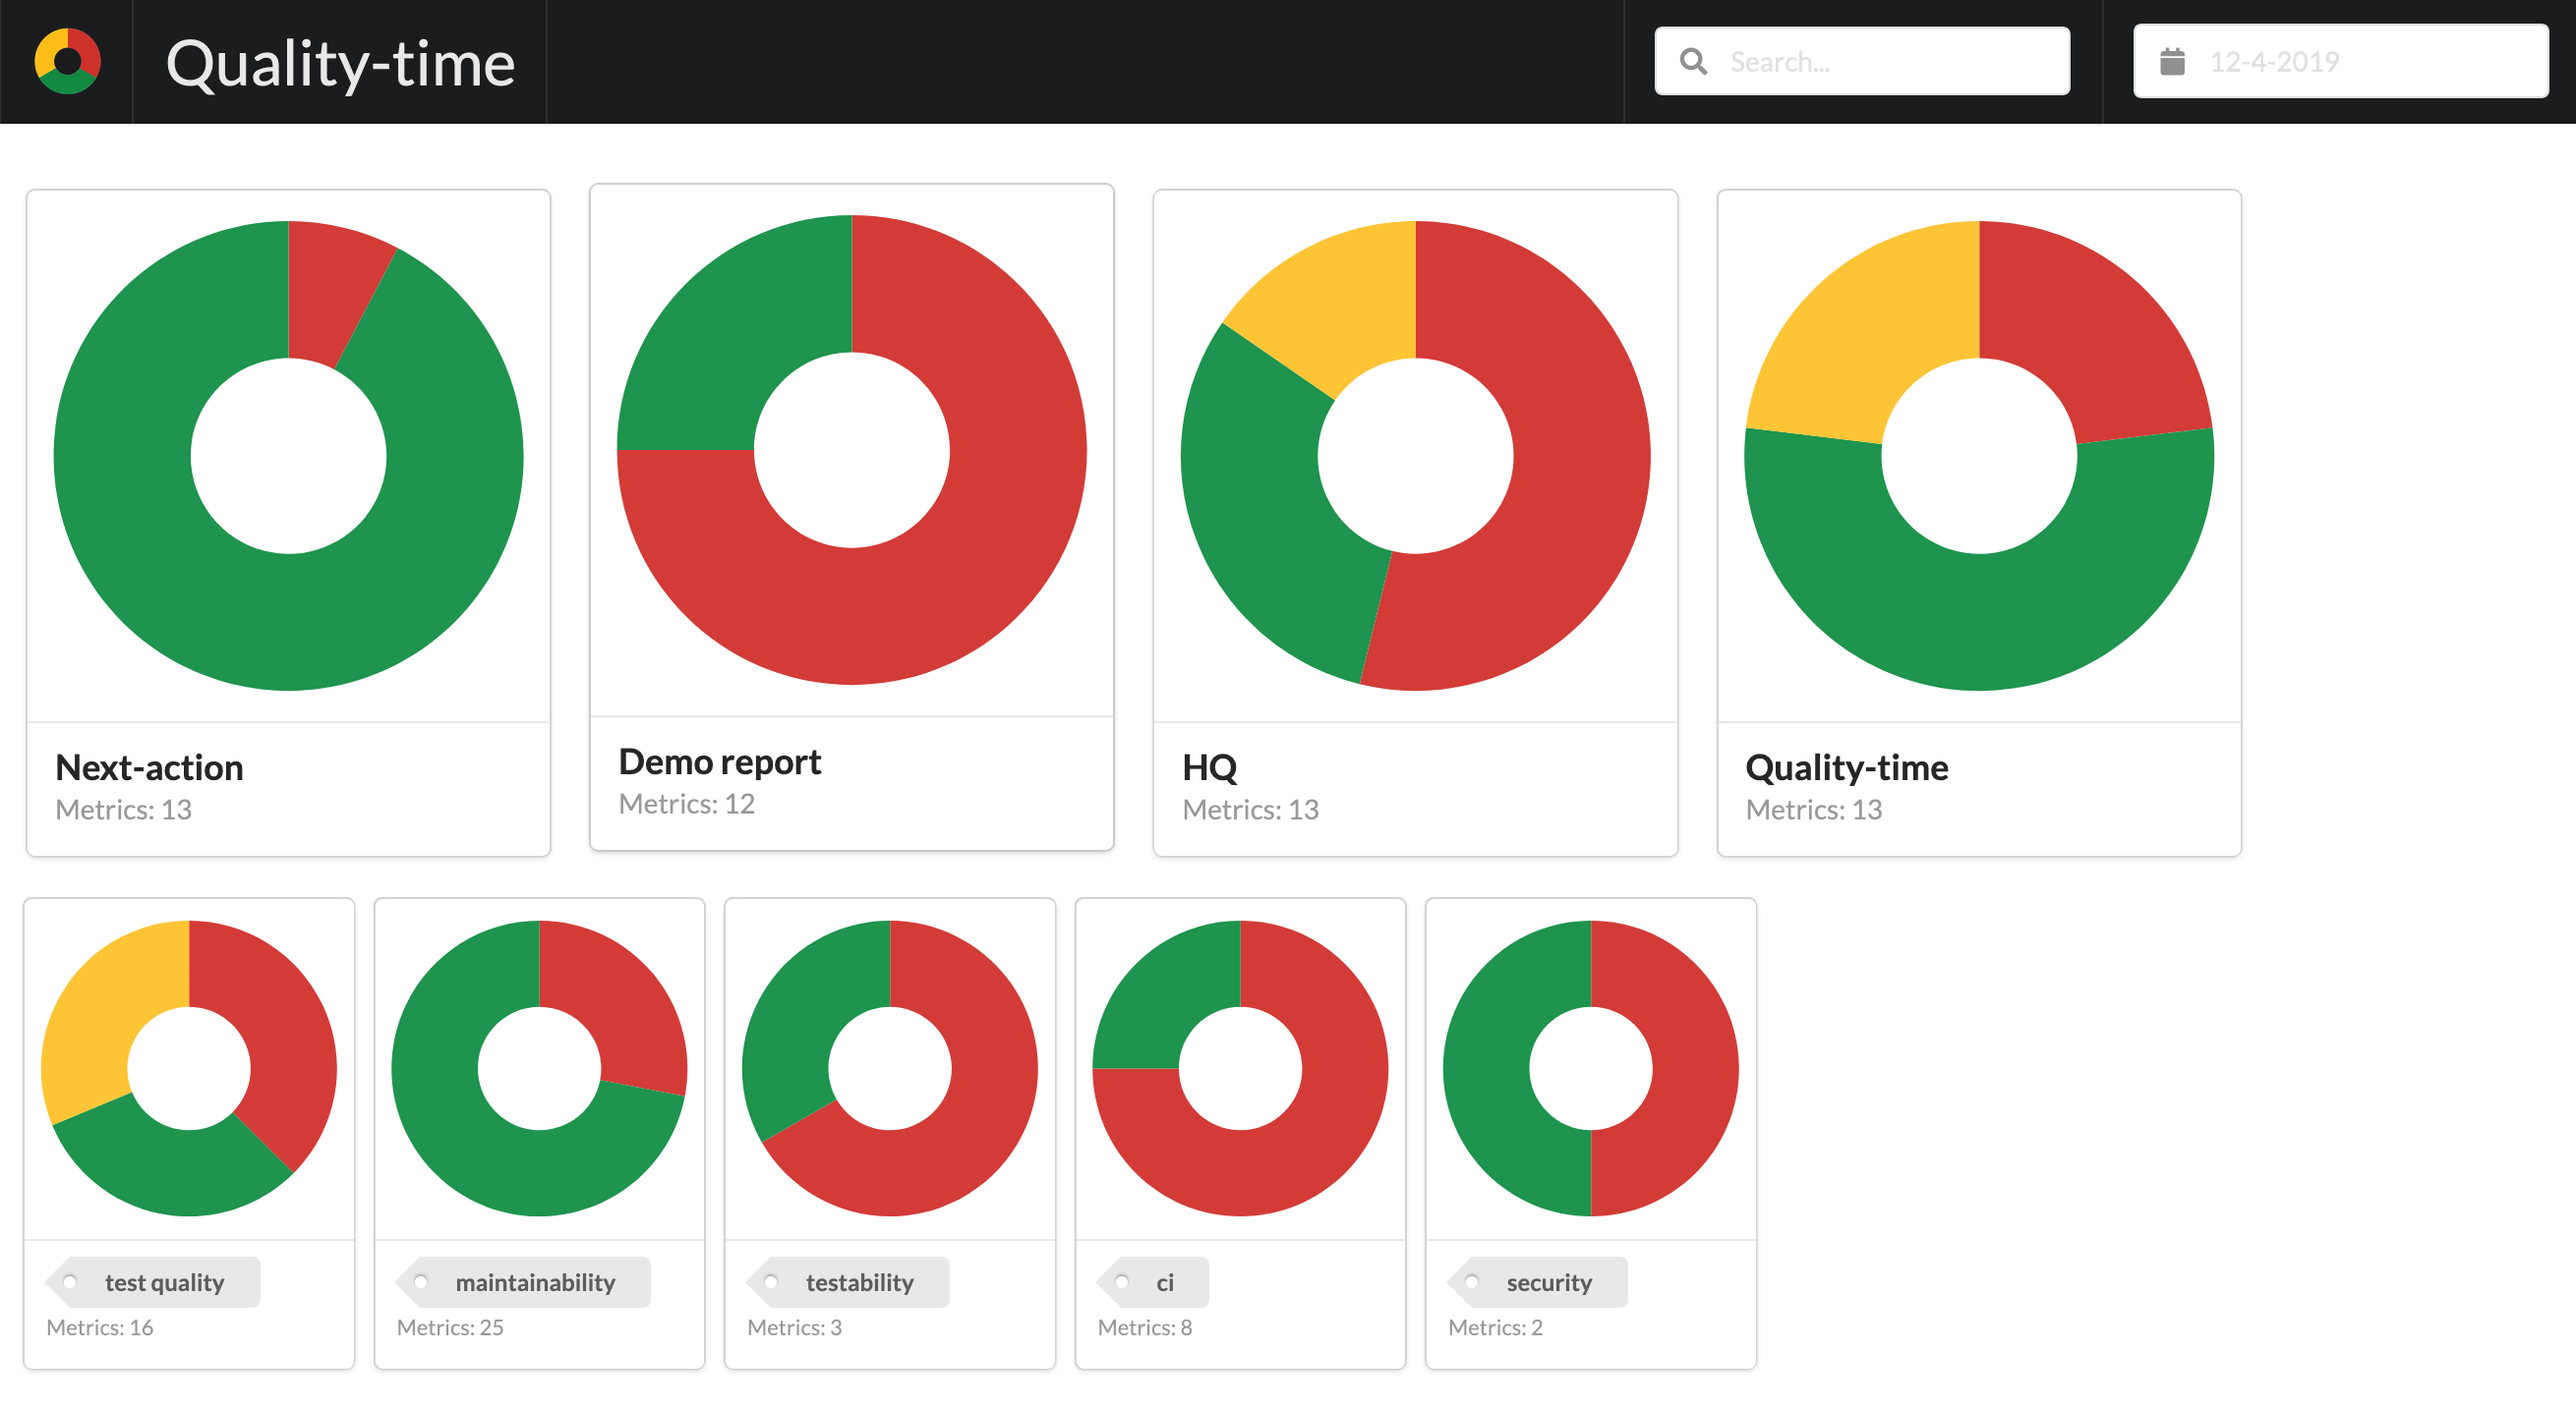
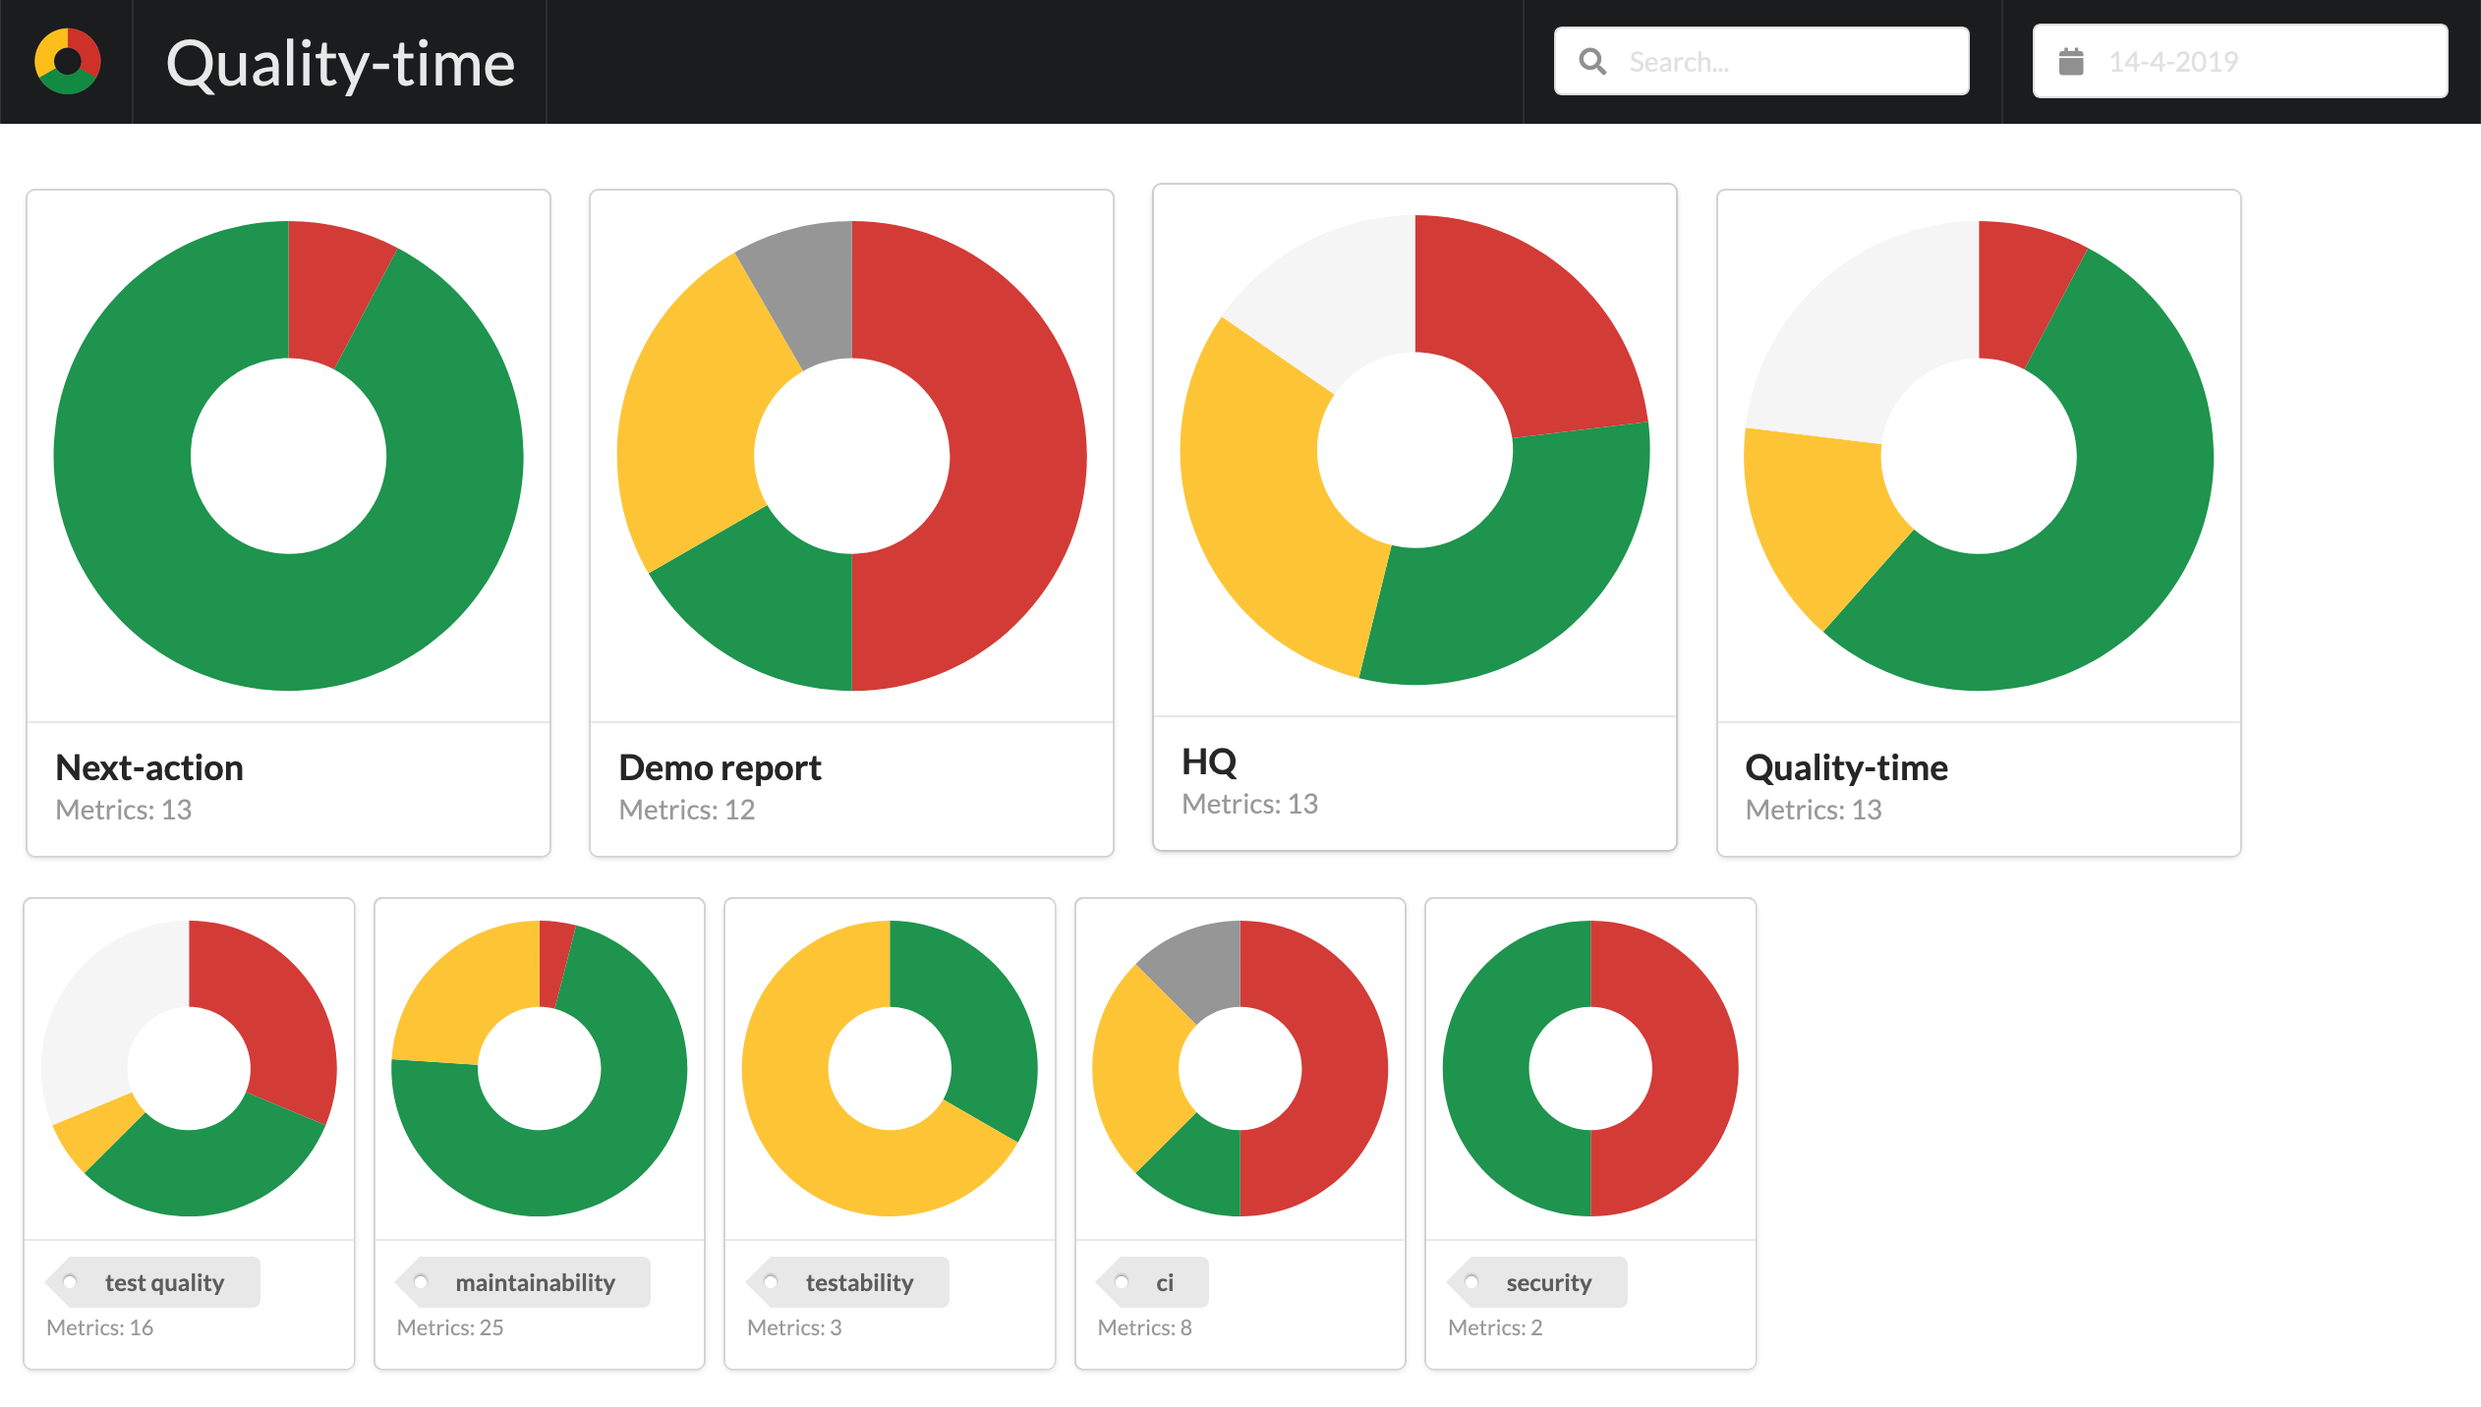
Issue 228 warning (#240)
* Add near-target status.

* Make near-target editable.

diff --git a/components/frontend/src/MetricParameters.js b/components/frontend/src/MetricParameters.js
@@ -65,6 +65,29 @@ function MetricParameters(props) {
                         />
                     </Grid.Column>
                     <Grid.Column>
+                        <MetricTarget
+                            direction={metric_type.direction}
+                            label="Metric near target"
+                            readOnly={props.readOnly}
+                            set_metric_attribute={props.set_metric_attribute}
+                            set_value={(value) => props.set_metric_attribute("near_target", value)}
+                            target={props.metric.near_target}
+                            unit={metric_unit}
+                        />
+                    </Grid.Column>
+                    <Grid.Column>
+                        <MultipleChoiceInput
+                            allowAdditions
+                            label="Tags"
+                            options={[...tags]}
+                            readOnly={props.readOnly}
+                            set_value={(value) => props.set_metric_attribute("tags", value)}
+                            value={props.metric.tags}
+                        />
+                    </Grid.Column>
+                </Grid.Row>
+                <Grid.Row columns={3}>
+                    <Grid.Column>
                         <SingleChoiceInput
                             label={<label>Accept technical debt? <a href="https://en.wikipedia.org/wiki/Technical_debt"><Icon name="help circle" link /></a></label>}
                             value={props.metric.accept_debt}
@@ -83,18 +106,6 @@ function MetricParameters(props) {
                             set_value={(value) => props.set_metric_attribute("debt_target", value)}
                             target={props.metric.debt_target}
                             unit={metric_unit}
-                        />
-                    </Grid.Column>
-                </Grid.Row>
-                <Grid.Row columns={3}>
-                    <Grid.Column>
-                        <MultipleChoiceInput
-                            allowAdditions
-                            label="Tags"
-                            options={[...tags]}
-                            readOnly={props.readOnly}
-                            set_value={(value) => props.set_metric_attribute("tags", value)}
-                            value={props.metric.tags}
                         />
                     </Grid.Column>
                 </Grid.Row>

diff --git a/components/frontend/src/Measurement.js b/components/frontend/src/Measurement.js
@@ -27,14 +27,15 @@ class Measurement extends Component {
       end = new Date(latest_measurement.end);
       measurement_timestring = latest_measurement.end;
     }
-    const status_icon = { target_met: 'smile', debt_target_met: 'money', target_not_met: 'frown', null: 'question' }[status];
+    const status_icon = { target_met: 'smile', near_target_met: 'meh', debt_target_met: 'money',
+                          target_not_met: 'frown', null: 'question' }[status];
     const metric = this.props.report.subjects[this.props.subject_uuid].metrics[this.props.metric_uuid];
     const target = metric.accept_debt ? metric.debt_target : metric.target;
     const metric_direction = this.props.datamodel.metrics[metric.type].direction;
     const positive = status === "target_met";
     const active = status === "debt_target_met";
     const negative = status === "target_not_met";
-    const warning = status === "target_warning";
+    const warning = status === "near_target_met";
     const metric_unit = metric.unit || this.props.datamodel.metrics[metric.type].unit;
     const metric_name = metric.name || this.props.datamodel.metrics[metric.type].name;
     let week_ago = new Date();

diff --git a/components/frontend/src/Metric.js b/components/frontend/src/Metric.js
@@ -54,7 +54,7 @@ class Metric extends Component {
         return response.json();
       })
       .then(function (json) {
-        if (attribute === "target" || attribute === "debt_target" || attribute === "accept_debt") {
+        if (attribute === "target" || attribute === "near_target" || attribute === "debt_target" || attribute === "accept_debt") {
           self.fetch_measurement();
         }
         self.props.reload();

diff --git a/components/frontend/src/SourceUnits.js b/components/frontend/src/SourceUnits.js
@@ -60,7 +60,7 @@ class Unit extends Component {
       ignore_unit={props.ignore_unit}
       rationale_for_ignoring_unit={props.rationale_for_ignoring_unit}
       readOnly={props.readOnly}
-      set_rationale_for_ignoring_unit={props.ignored_units_rationale}
+      set_rationale_for_ignoring_unit={props.set_rationale_for_ignoring_unit}
       source_uuid={props.source_uuid}
       unit={props.unit}
       unit_name={unit_name}

diff --git a/components/server/src/database/measurements.py b/components/server/src/database/measurements.py
@@ -26,17 +26,18 @@ def count_measurements(database: Database, report_uuid: str) -> int:
 
 
 def insert_new_measurement(database: Database, metric_uuid: str, measurement, target: str = None,
-                           debt_target: str = None, accept_debt: bool = None):
+                           near_target: str = None, debt_target: str = None, accept_debt: bool = None):
     """Insert a new measurement."""
     if "_id" in measurement:
         del measurement["_id"]
     metric = latest_metric(database, metric_uuid)
     measurement["value"] = calculate_measurement_value(measurement["sources"], metric["addition"])
     target = metric["target"] if target is None else target
+    near_target = metric["near_target"] if near_target is None else near_target
     debt_target = metric["debt_target"] if debt_target is None else debt_target
     accept_debt = metric["accept_debt"] if accept_debt is None else accept_debt
     measurement["status"] = determine_measurement_status(
-        database, metric, measurement["value"], target, debt_target, accept_debt)
+        database, metric, measurement["value"], target, near_target, debt_target, accept_debt)
     measurement["start"] = measurement["end"] = iso_timestamp()
     database.measurements.insert_one(measurement)
     measurement["_id"] = str(measurement["_id"])
@@ -58,7 +59,8 @@ def calculate_measurement_value(sources, addition: str) -> Optional[str]:
 
 def determine_measurement_status(
         database: Database, metric, measurement_value: Optional[str], metric_target: Optional[str],
-        metric_debt_target: Optional[str], metric_accept_debt: Optional[bool]) -> Optional[str]:
+        metric_near_target: Optional[str], metric_debt_target: Optional[str],
+        metric_accept_debt: Optional[bool]) -> Optional[str]:
     """Determine the measurement status."""
     if measurement_value is None:
         return None
@@ -66,12 +68,15 @@ def determine_measurement_status(
     direction = datamodel["metrics"][metric["type"]]["direction"]
     value = int(measurement_value)
     target = int(metric_target or metric["target"])
+    near_target = int(metric_near_target or metric["near_target"])
     debt_target = int(metric_debt_target or metric["debt_target"] or target)
     better_or_equal = {">=": int.__ge__, "<=": int.__le__, "==": int.__eq__}[direction]
     if better_or_equal(value, target):
         status = "target_met"
     elif metric_accept_debt and better_or_equal(value, debt_target):
         status = "debt_target_met"
+    elif better_or_equal(value, near_target):
+        status = "near_target_met"
     else:
         status = "target_not_met"
     return status

diff --git a/components/server/tests/unittests/routes/test_measurement.py b/components/server/tests/unittests/routes/test_measurement.py
@@ -24,8 +24,8 @@ class PostMeasurementTests(unittest.TestCase):
                     s=dict(
                         metrics=dict(
                             metric_uuid=dict(
-                                type="metric_type", addition="sum", target="0", debt_target=None, accept_debt=False,
-                                tags=[]))))))
+                                type="metric_type", addition="sum", target="0", near_target="10", debt_target=None,
+                                accept_debt=False, tags=[]))))))
         database.datamodels.find_one = Mock(return_value=dict(_id="", metrics=dict(metric_type=dict(direction="<="))))
         with patch("bottle.request") as request:
             request.json = dict(metric_uuid="metric_uuid", sources=[])

diff --git a/components/server/src/database/reports.py b/components/server/src/database/reports.py
@@ -28,7 +28,8 @@ def latest_reports(database: Database, max_iso_timestamp: str = ""):
 def summarize_report(database: Database, report) -> None:
     """Add a summary of the measurements to each subject."""
     from .measurements import latest_measurement  # Prevent circular import
-    status_color_mapping = dict(target_met="green", debt_target_met="grey", target_not_met="red")
+    status_color_mapping = dict(
+        target_met="green", debt_target_met="grey", near_target_met="yellow", target_not_met="red")
     summary = dict(red=0, green=0, yellow=0, grey=0, white=0)
     summary_by_subject: Dict[str, Summary] = dict()
     summary_by_tag: Dict[str, Summary] = dict()

diff --git a/components/server/src/database/datamodels.py b/components/server/src/database/datamodels.py
@@ -44,7 +44,8 @@ def default_metric_attributes(database: Database, report_uuid: str, metric_type:
     defaults = metric_types[metric_type]
     return dict(
         type=metric_type, report_uuid=report_uuid, sources={}, name=None, unit=None, addition=defaults["addition"],
-        accept_debt=False, debt_target=None, target=defaults["target"], tags=defaults["tags"])
+        accept_debt=False, debt_target=None, target=defaults["target"], near_target=defaults["near_target"],
+        tags=defaults["tags"])
 
 
 def default_subject_attributes(database: Database, report_uuid: str, subject_type: str = "") -> Dict[str, Any]:

diff --git a/components/server/src/routes/report.py b/components/server/src/routes/report.py
@@ -86,7 +86,7 @@ def post_metric_attribute(report_uuid: str, metric_uuid: str, metric_attribute: 
             else:
                 del sources[source_uuid]
     insert_new_report(database, report)
-    if metric_attribute in ("accept_debt", "debt_target", "target"):
+    if metric_attribute in ("accept_debt", "debt_target", "near_target", "target"):
         latest = latest_measurement(database, metric_uuid)
         if latest:
             return insert_new_measurement(database, metric_uuid, latest, **{metric_attribute: value})

diff --git a/components/server/README.md b/components/server/README.md
@@ -28,6 +28,7 @@ The `metrics` part of the datamodel is an object where the keys are the metric t
             "addition": "sum",
             "direction": "<=",
             "target": "0",
+            "near_target": "10",
             "sources": [
                 "hq",
                 "sonarqube",
@@ -42,7 +43,7 @@ The `metrics` part of the datamodel is an object where the keys are the metric t
 }
 ```
 
-The `name` is the default name of metrics of this type. The `description` describes what the metric measures. The `unit` is the default unit of the metric, e.g. lines of code, security warnings, or in the above example, complex units. The `addition` determines how values from multiple sources are combined: possible values are `sum` and `max`. The `direction` specifies whether smaller measurement values are better or worse. The `target` is the default target value for the metric. The list of `sources` contains the keys of source types that support this metric type. Finally, `tags` are simple strings used to group related metrics.
+The `name` is the default name of metrics of this type. The `description` describes what the metric measures. The `unit` is the default unit of the metric, e.g. lines of code, security warnings, or in the above example, complex units. The `addition` determines how values from multiple sources are combined: possible values are `sum` and `max`. The `direction` specifies whether smaller measurement values are better or worse. The `target` is the default target value for the metric. The `near_target` is when the metric becomes red. Values between `target` and `near_target` are yellow. The list of `sources` contains the keys of source types that support this metric type. Finally, `tags` are simple strings used to group related metrics.
 
 Users with sufficient rights can override the name, unit, and target of metrics via the user interface.
 
